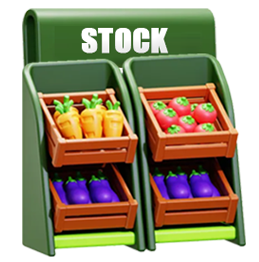
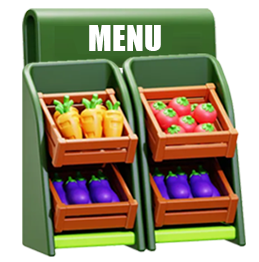
fix remove product

Changed region(s): [[0.3089, 0.0916, 0.6486, 0.2137]]

diff --git a/src/css/output.css b/src/css/output.css
@@ -2599,6 +2599,11 @@ input:checked + .toggle-bg {
   border-color: rgb(0 0 0 / var(--tw-border-opacity));
 }
 
+.border-gray-600 {
+  --tw-border-opacity: 1;
+  border-color: rgb(75 85 99 / var(--tw-border-opacity));
+}
+
 .border-slate-300 {
   --tw-border-opacity: 1;
   border-color: rgb(203 213 225 / var(--tw-border-opacity));
@@ -2624,11 +2629,6 @@ input:checked + .toggle-bg {
   border-color: rgb(243 244 246 / var(--tw-border-opacity));
 }
 
-.border-gray-600 {
-  --tw-border-opacity: 1;
-  border-color: rgb(75 85 99 / var(--tw-border-opacity));
-}
-
 .bg-white {
   --tw-bg-opacity: 1;
   background-color: rgb(255 255 255 / var(--tw-bg-opacity));
@@ -2644,9 +2644,9 @@ input:checked + .toggle-bg {
   background-color: rgb(209 213 219 / var(--tw-bg-opacity));
 }
 
-.bg-blue-500 {
+.bg-\[\#62c700\] {
   --tw-bg-opacity: 1;
-  background-color: rgb(59 130 246 / var(--tw-bg-opacity));
+  background-color: rgb(98 199 0 / var(--tw-bg-opacity));
 }
 
 .bg-gray-50 {
@@ -2667,11 +2667,6 @@ input:checked + .toggle-bg {
   background-color: transparent;
 }
 
-.bg-blue-700 {
-  --tw-bg-opacity: 1;
-  background-color: rgb(29 78 216 / var(--tw-bg-opacity));
-}
-
 .\!bg-\[rgb\(245\2c 245\2c 245\)\] {
   --tw-bg-opacity: 1 !important;
   background-color: rgb(245 245 245 / var(--tw-bg-opacity)) !important;
@@ -2682,9 +2677,19 @@ input:checked + .toggle-bg {
   background-color: rgb(147 197 253 / var(--tw-bg-opacity));
 }
 
+.bg-blue-700 {
+  --tw-bg-opacity: 1;
+  background-color: rgb(29 78 216 / var(--tw-bg-opacity));
+}
+
 .bg-gray-200 {
   --tw-bg-opacity: 1;
   background-color: rgb(229 231 235 / var(--tw-bg-opacity));
+}
+
+.\!bg-\[\#62c700\] {
+  --tw-bg-opacity: 1 !important;
+  background-color: rgb(98 199 0 / var(--tw-bg-opacity)) !important;
 }
 
 .bg-\[rgb\(212\2c 237\2c 218\)\] {
@@ -2695,6 +2700,11 @@ input:checked + .toggle-bg {
 .bg-red-500 {
   --tw-bg-opacity: 1;
   background-color: rgb(239 68 68 / var(--tw-bg-opacity));
+}
+
+.bg-blue-500 {
+  --tw-bg-opacity: 1;
+  background-color: rgb(59 130 246 / var(--tw-bg-opacity));
 }
 
 .bg-slate-100 {
@@ -2748,31 +2758,6 @@ input:checked + .toggle-bg {
 .bg-gray-800 {
   --tw-bg-opacity: 1;
   background-color: rgb(31 41 55 / var(--tw-bg-opacity));
-}
-
-.\!bg-\[\#62c700\] {
-  --tw-bg-opacity: 1 !important;
-  background-color: rgb(98 199 0 / var(--tw-bg-opacity)) !important;
-}
-
-.bg-\[\#62c700\] {
-  --tw-bg-opacity: 1;
-  background-color: rgb(98 199 0 / var(--tw-bg-opacity));
-}
-
-.bg-green-700 {
-  --tw-bg-opacity: 1;
-  background-color: rgb(21 128 61 / var(--tw-bg-opacity));
-}
-
-.bg-green-400 {
-  --tw-bg-opacity: 1;
-  background-color: rgb(74 222 128 / var(--tw-bg-opacity));
-}
-
-.bg-green-500 {
-  --tw-bg-opacity: 1;
-  background-color: rgb(34 197 94 / var(--tw-bg-opacity));
 }
 
 .bg-gradient-to-b {
@@ -3161,6 +3146,11 @@ input:checked + .toggle-bg {
   color: rgb(203 213 225 / var(--tw-text-opacity));
 }
 
+.text-blue-500 {
+  --tw-text-opacity: 1;
+  color: rgb(59 130 246 / var(--tw-text-opacity));
+}
+
 .text-black {
   --tw-text-opacity: 1;
   color: rgb(0 0 0 / var(--tw-text-opacity));
@@ -3204,16 +3194,6 @@ input:checked + .toggle-bg {
 .text-green-600 {
   --tw-text-opacity: 1;
   color: rgb(22 163 74 / var(--tw-text-opacity));
-}
-
-.text-blue-400 {
-  --tw-text-opacity: 1;
-  color: rgb(96 165 250 / var(--tw-text-opacity));
-}
-
-.text-blue-500 {
-  --tw-text-opacity: 1;
-  color: rgb(59 130 246 / var(--tw-text-opacity));
 }
 
 .underline {
@@ -3550,6 +3530,11 @@ tr {
   background-color: rgb(29 78 216 / var(--tw-bg-opacity));
 }
 
+.hover\:bg-green-600:hover {
+  --tw-bg-opacity: 1;
+  background-color: rgb(22 163 74 / var(--tw-bg-opacity));
+}
+
 .hover\:bg-gray-100:hover {
   --tw-bg-opacity: 1;
   background-color: rgb(243 244 246 / var(--tw-bg-opacity));
@@ -3575,24 +3560,9 @@ tr {
   background-color: rgb(220 38 38 / var(--tw-bg-opacity));
 }
 
-.hover\:bg-blue-500:hover {
-  --tw-bg-opacity: 1;
-  background-color: rgb(59 130 246 / var(--tw-bg-opacity));
-}
-
 .hover\:bg-white:hover {
   --tw-bg-opacity: 1;
   background-color: rgb(255 255 255 / var(--tw-bg-opacity));
-}
-
-.hover\:bg-green-800:hover {
-  --tw-bg-opacity: 1;
-  background-color: rgb(22 101 52 / var(--tw-bg-opacity));
-}
-
-.hover\:bg-green-600:hover {
-  --tw-bg-opacity: 1;
-  background-color: rgb(22 163 74 / var(--tw-bg-opacity));
 }
 
 .hover\:text-gray-700:hover {
@@ -3603,6 +3573,11 @@ tr {
 .hover\:text-gray-900:hover {
   --tw-text-opacity: 1;
   color: rgb(17 24 39 / var(--tw-text-opacity));
+}
+
+.hover\:text-blue-800:hover {
+  --tw-text-opacity: 1;
+  color: rgb(30 64 175 / var(--tw-text-opacity));
 }
 
 .hover\:text-blue-600:hover {
@@ -3618,16 +3593,6 @@ tr {
 .hover\:text-gray-600:hover {
   --tw-text-opacity: 1;
   color: rgb(75 85 99 / var(--tw-text-opacity));
-}
-
-.hover\:text-blue-500:hover {
-  --tw-text-opacity: 1;
-  color: rgb(59 130 246 / var(--tw-text-opacity));
-}
-
-.hover\:text-blue-800:hover {
-  --tw-text-opacity: 1;
-  color: rgb(30 64 175 / var(--tw-text-opacity));
 }
 
 .hover\:underline:hover {

diff --git a/src/php/products.php b/src/php/products.php
@@ -241,9 +241,13 @@ switch (M) {
 
         // Handle deprecated | legacy
         if ($db->query("SELECT COUNT(*) AS total_data FROM transaction_details WHERE product_id = $id")->fetch_assoc()['total_data'] == 0)
-            $db->query("DELETE FROM $table WHERE id='$id'");
+            $db->query("DELETE FROM $table WHERE id='$id' ");
 
-        $db->query("UPDATE $table SET deprecated_code = 2 WHERE (origin_id = 0 AND id = $id) OR origin_id = WHEN origin_id IS NOT 0 THEN $origin_id END");
+        else {
+            $query = "UPDATE $table SET deprecated_code = 2 WHERE (origin_id = 0 AND id = $id) OR (origin_id != 0 AND origin_id = $origin_id)";
+            // die($query);
+            $db->query($query);
+        }
 
         echo json_encode(['status' => true, 'msg' => 'Item berhasil dihapus.']);
         break;
